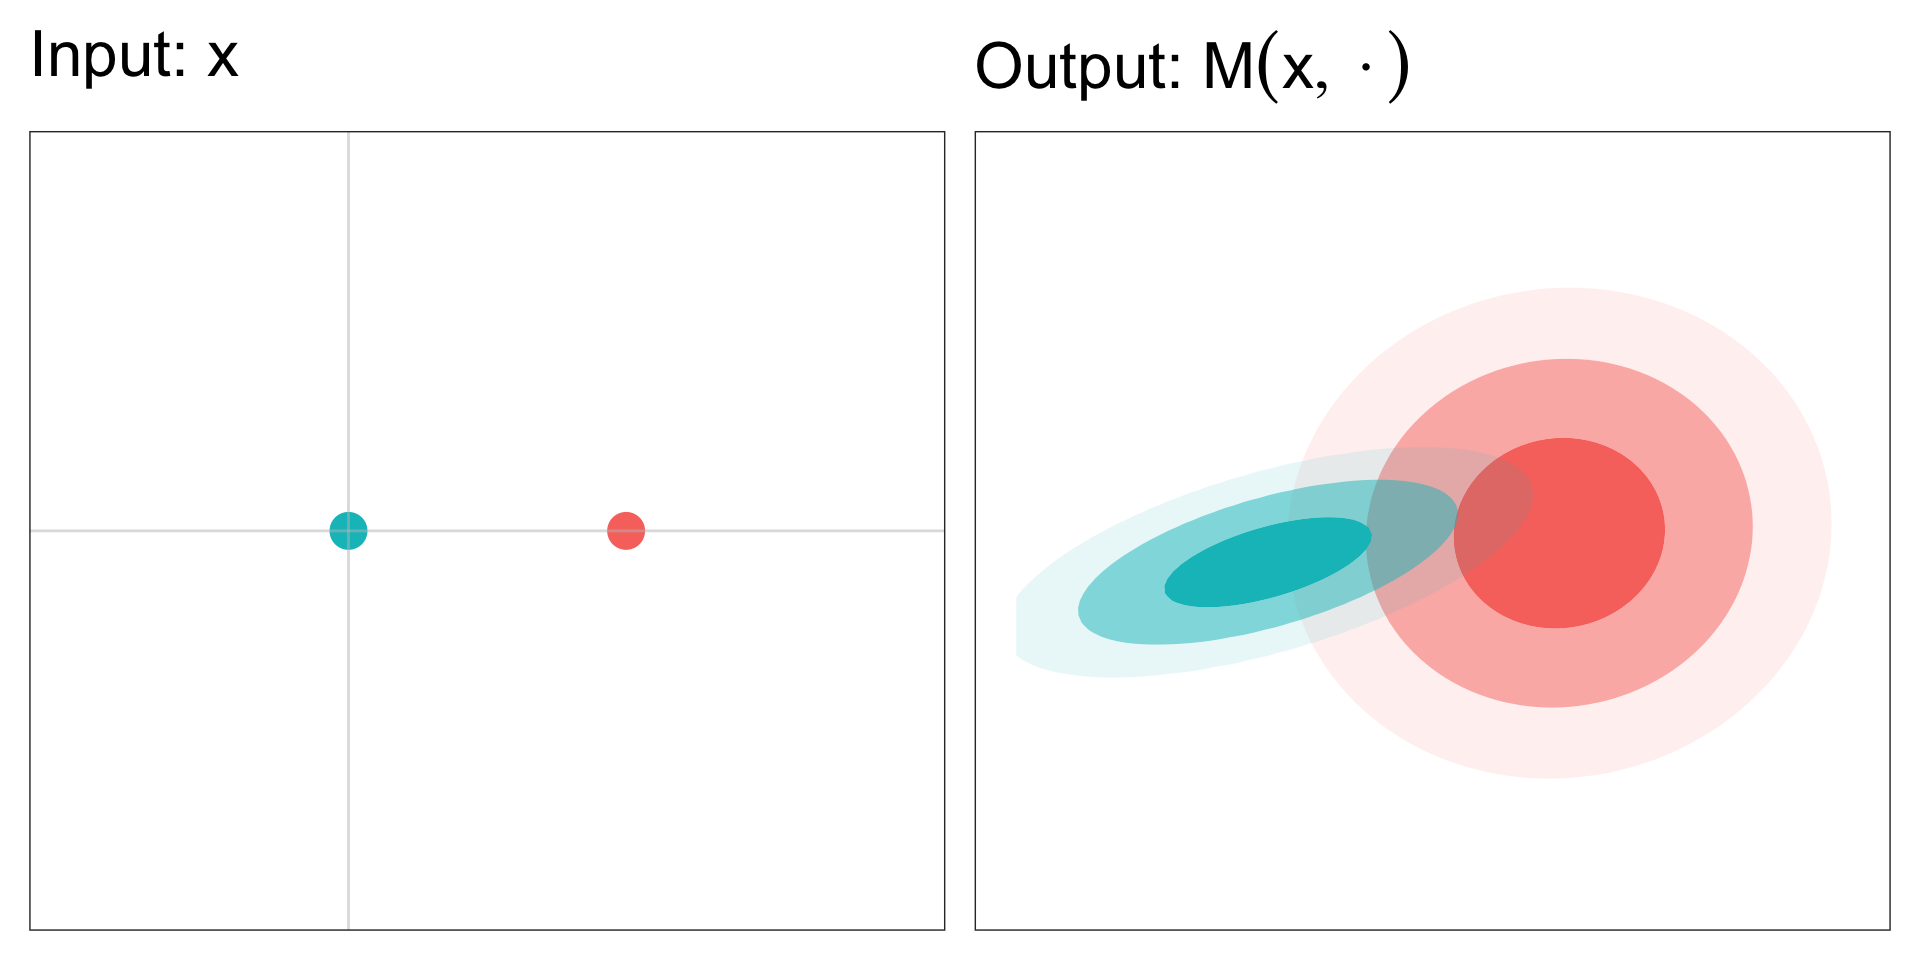
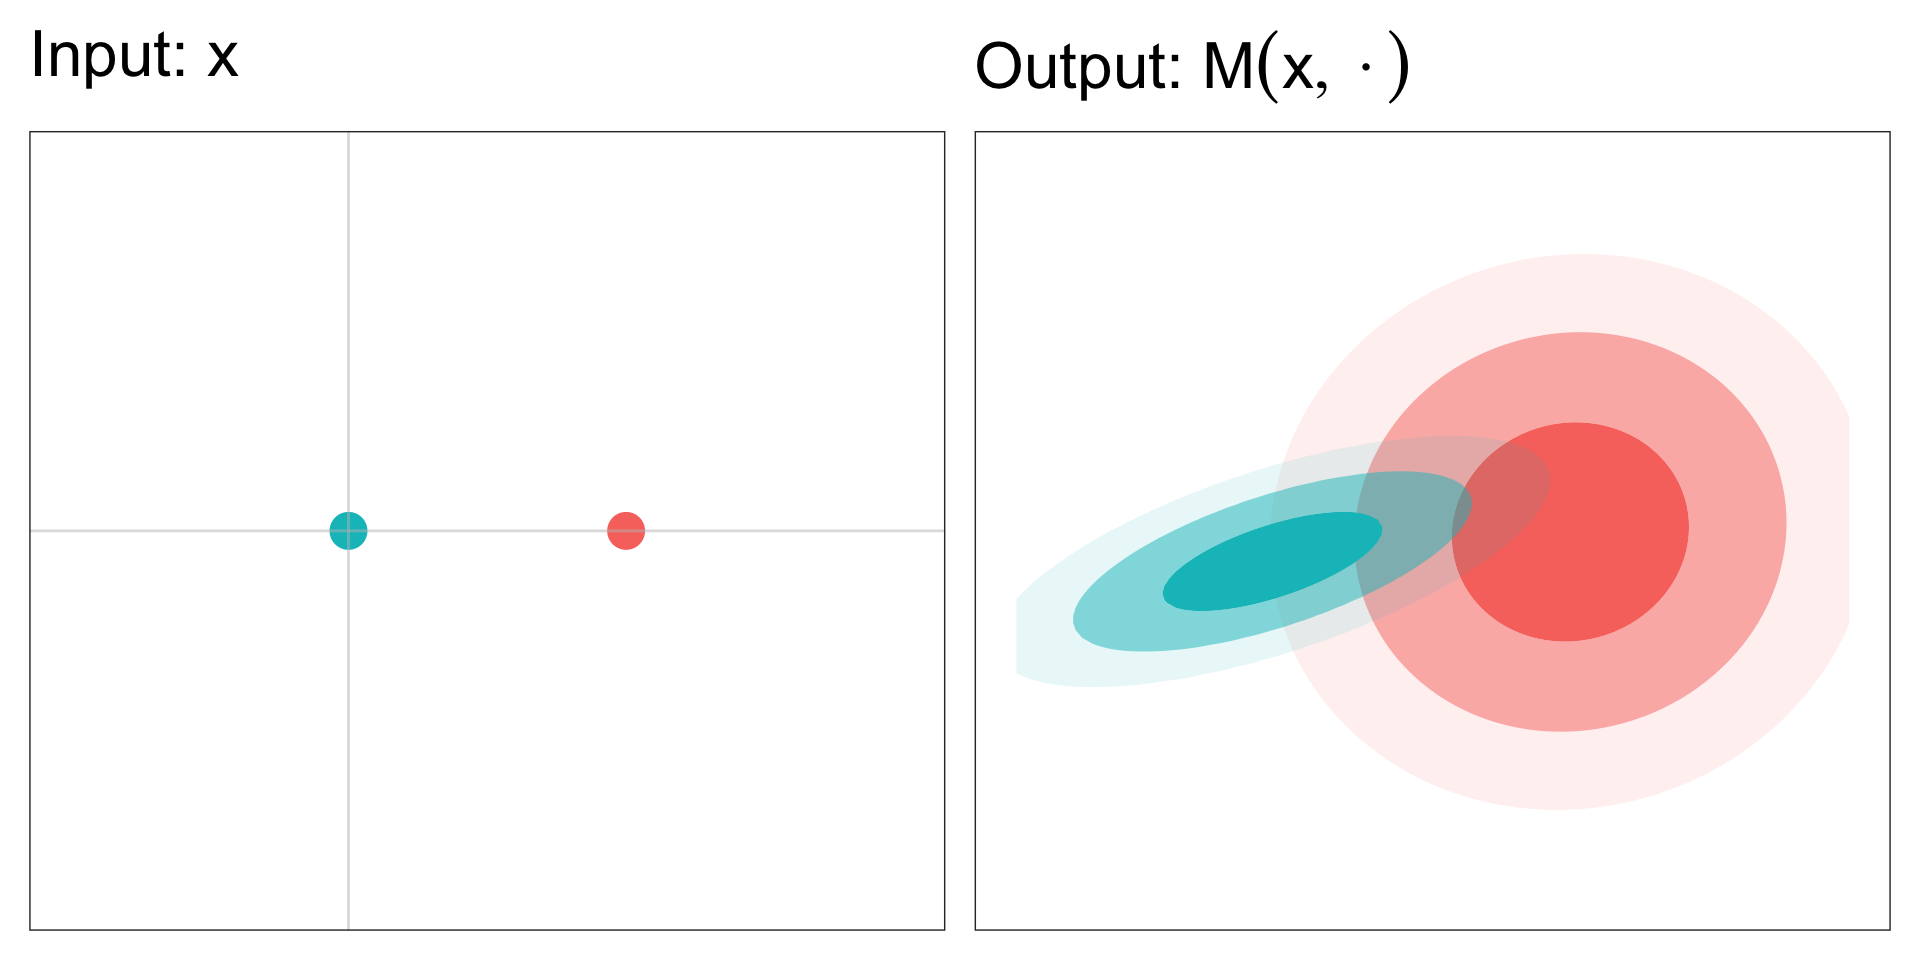
Pre-diagram fixes, hidden DP slides

Changed region(s): [[0.7188, 0.3438, 0.9375, 0.7812], [0.6875, 0.4062, 0.7812, 0.6562], [0.5625, 0.625, 0.6562, 0.6875]]

diff --git a/index.html b/index.html
@@ -184,20 +184,20 @@ Joshua J Bon
 
 </section>
 <section id="todays-talk" class="slide level2">
-<h2>Today’s talk</h2>
+<h2>Today’s talk<sup>1</sup></h2>
 <div class="columns">
 <div class="column" style="width:50%;">
 <ol type="1">
 <li class="fragment">Differential privacy</li>
-<li class="fragment">Privacy from the ground up</li>
-<li class="fragment">Persuasive privacy<sup>1</sup></li>
+<li class="fragment"><del>Decision-theoretic privacy</del> Game-theoretic privacy</li>
+<li class="fragment">Persuasive privacy<sup>2</sup></li>
 <li class="fragment">Differential privacy redux</li>
 <li class="fragment">Privacy without noise (?)</li>
 </ol>
 </div><div class="column" style="width:50%;">
 <p><img data-src="imgs/leshouches.png"></p>
 </div></div>
-<aside><ol class="aside-footnotes"><li id="fn1"><p>Bon, Bailie, Rousseau &amp; Robert (2026) <em>ICML 2026</em> <a href="https://arxiv.org/abs/2601.22945">arXiv 2601.22945</a> <a href="https://bonstats.github.io/privacy26">bonstats.github.io/privacy26</a></p></li></ol></aside></section>
+<aside><ol class="aside-footnotes"><li id="fn1"><p>Slides: <a href="https://bonstats.github.io/privacy26">bonstats.github.io/privacy26</a></p></li><li id="fn2"><p>Paper: Bon, Bailie, Rousseau &amp; Robert (2026) <em>ICML 2026</em> <a href="https://arxiv.org/abs/2601.22945">arXiv 2601.22945</a></p></li></ol></aside></section>
 <section id="a-game-of-privacy" class="slide level2">
 <h2>A Game of Privacy</h2>
 <div class="columns">
@@ -230,8 +230,8 @@ Joshua J Bon
 <h1>Differential privacy</h1>
 
 </section>
-<section id="dp-framework" class="slide level2">
-<h2>DP framework</h2>
+<section id="private-mechanisms" class="slide level2">
+<h2>Private mechanisms?</h2>
 <p><span class="math display">\text{Dataset}~x \overset{\text{release}}{\longrightarrow} \text{statistic}~T</span></p>
 <ul>
 <li class="fragment"><span class="math inline">T \sim M(x,\cdot)</span>, with some mechanism <span class="math inline">M</span></li>
@@ -246,12 +246,7 @@ Joshua J Bon
 <p><span class="math display">M(x,\cdot) = \mathcal{N}(\overline{x},\sigma^2)</span></p>
 </div>
 </section>
-<section id="dp-intuition" class="slide level2">
-<h2>DP Intuition</h2>
 
-<img data-src="index_files/figure-revealjs/unnamed-chunk-1-1.png" width="960" class="r-stretch"><p>To limit information leaked about data <span class="math inline">x</span> by statistic <span class="math inline">T</span>,</p>
-<p>control the sensitivity of the mechanism <span class="math inline">M(x,\cdot)</span> w.r.t. <span class="math inline">x</span>.</p>
-</section>
 <section id="dp-definition" class="slide level2">
 <h2>DP Definition</h2>
 <p>Borrow from Lipschitz continuity <span class="citation" data-cites="bailie2024general">(<a href="#/references" role="doc-biblioref" onclick="">Bailie and Gong 2024</a>)</span>.</p>
@@ -262,31 +257,7 @@ Joshua J Bon
 <p>for all <span class="math inline">x,x^\prime \in \mathcal{D}</span>.</p>
 </div>
 </section>
-<section id="dp-definition-1" class="slide level2">
-<h2>DP Definition</h2>
-<p>A mechanism <span class="math inline">M</span> is <span class="math inline">\epsilon</span>-DP if</p>
-<div class="fragment">
-<p><span class="math display">\sup_{S\in\mathcal{S}}\left\vert\ln\frac{M(x,S)}{M(x^\prime,S)}\right\vert \leq \epsilon</span></p>
-</div>
-<div class="fragment">
-<p>for all <span class="math inline">x,x^\prime \in \mathcal{D}</span>, differing by at most one element.</p>
-</div>
-<div class="fragment">
-<div class="callout callout-note callout-titled callout-style-default">
-<div class="callout-body">
-<div class="callout-title">
-<div class="callout-icon-container">
-<i class="callout-icon"></i>
-</div>
-<p><strong>Pure Differential Privacy</strong></p>
-</div>
-<div class="callout-content">
-<p><span class="math display">M(x,S) \leq \exp\{\epsilon\} M(x^\prime, S)</span> for all <span class="math inline">x \sim x^\prime</span> and <span class="math inline">S \in \mathcal{S}</span>.</p>
-</div>
-</div>
-</div>
-</div>
-</section>
+
 <section id="some-dp-properties" class="slide level2">
 <h2>Some DP Properties</h2>
 <p>Focusing on (pure) <span class="math inline">\epsilon</span>-DP.</p>
@@ -370,7 +341,7 @@ Joshua J Bon
 <li class="fragment">DP for MCMC is <span class="redacted">c o o k e d</span></li>
 </ul>
 <div class="fragment">
-<p>Our approach is a <strong>semantics-first</strong> understanding of data privacy, where</p>
+<p>Our approach is a <strong>semantics first</strong> understanding of data privacy, where</p>
 </div>
 <ul>
 <li class="fragment">Privacy definitions are systematically constructed from an <strong>agent-based game</strong></li>
@@ -391,8 +362,8 @@ Joshua J Bon
 </ul>
 </section></section>
 <section>
-<section id="privacy-from-the-ground-up-or-semantics-first" class="title-slide slide level1 center">
-<h1>Privacy from the ground up or “semantics first”</h1>
+<section id="game-theoretic-privacy" class="title-slide slide level1 center">
+<h1>Game-theoretic privacy</h1>
 
 </section>
 <section id="overview" class="slide level2">
@@ -728,7 +699,7 @@ d^{Q_T} \in \arg\inf_{d \in \mathcal{D}} \mathbb{E}_{z \sim Q_T}[ \rho(d,z)]
 <li class="fragment">A “privacy score”</li>
 </ul></li>
 </ul>
-<aside><ol class="aside-footnotes"><li id="fn2"><p><span class="citation" data-cites="grunwald2004game">Grünwald and Dawid (<a href="#/references" role="doc-biblioref" onclick="">2004</a>)</span></p></li></ol></aside></section>
+<aside><ol class="aside-footnotes"><li id="fn3"><p><span class="citation" data-cites="grunwald2004game">Grünwald and Dawid (<a href="#/references" role="doc-biblioref" onclick="">2004</a>)</span></p></li></ol></aside></section>
 <section id="measuring-privacy-1" class="slide level2">
 <h2>Measuring privacy</h2>
 <div class="callout callout-note callout-titled callout-style-default">